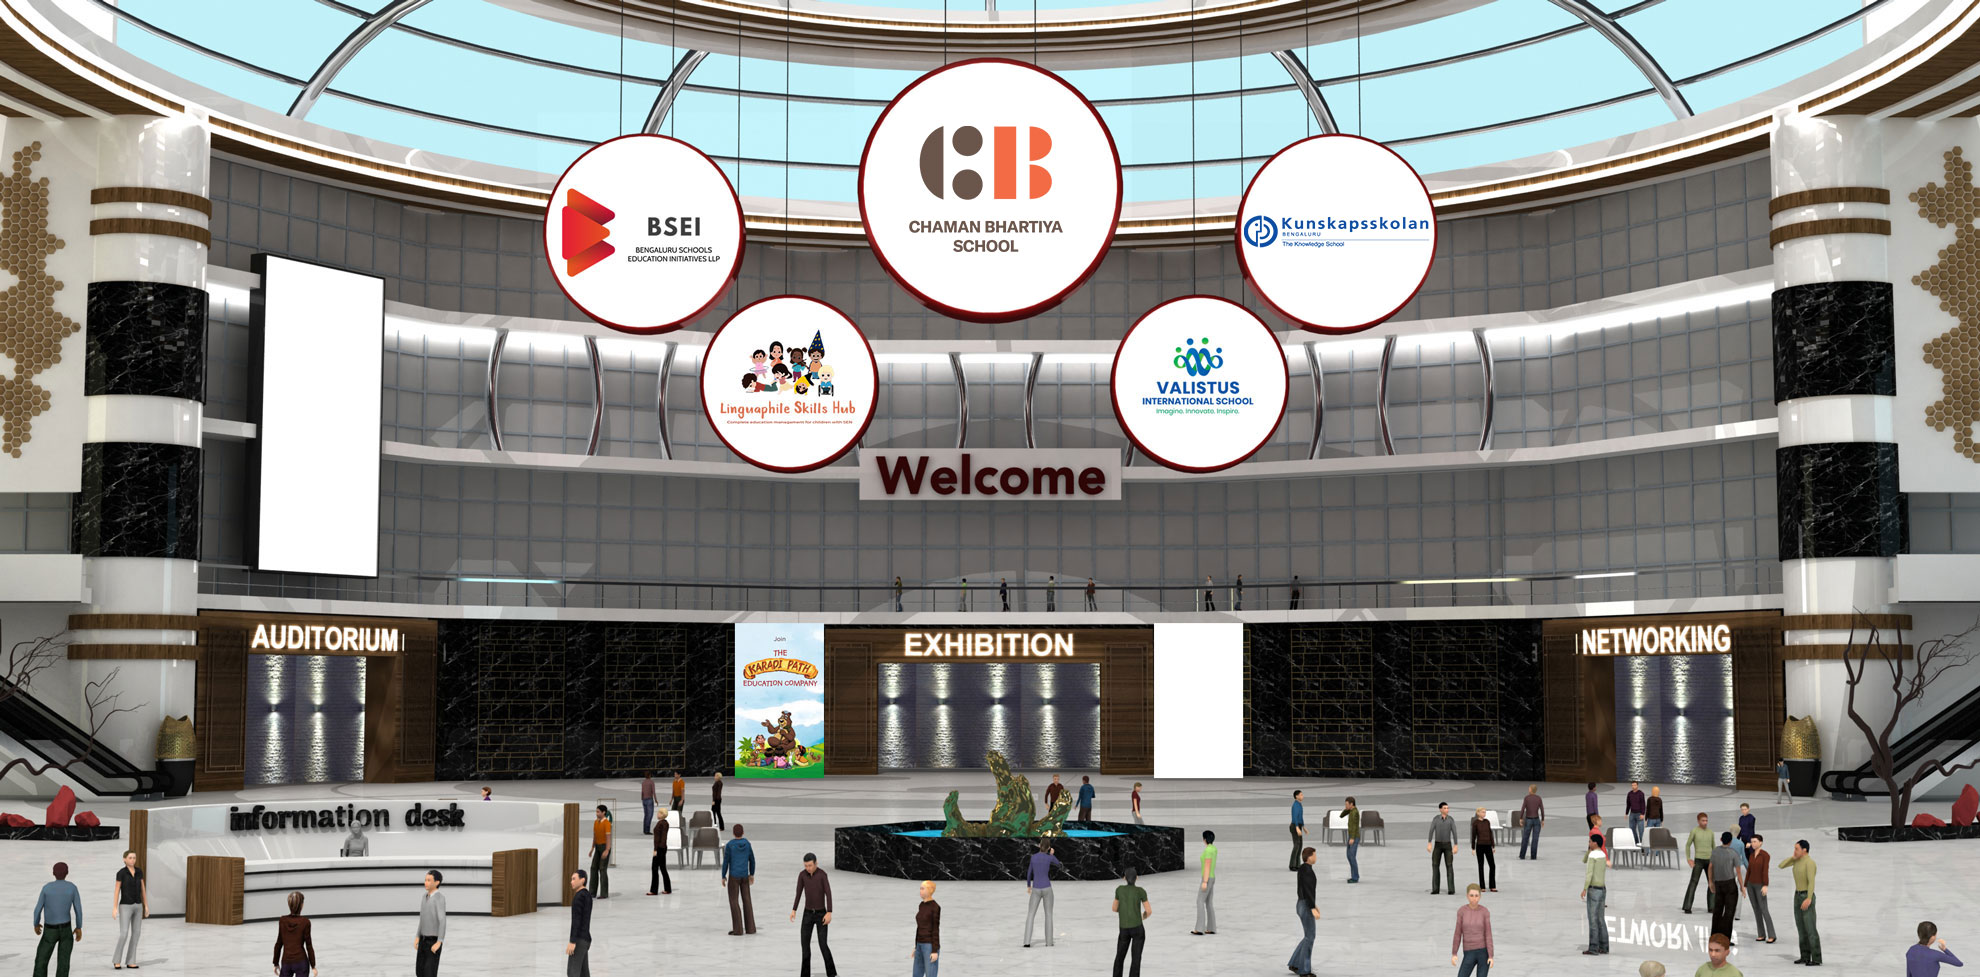
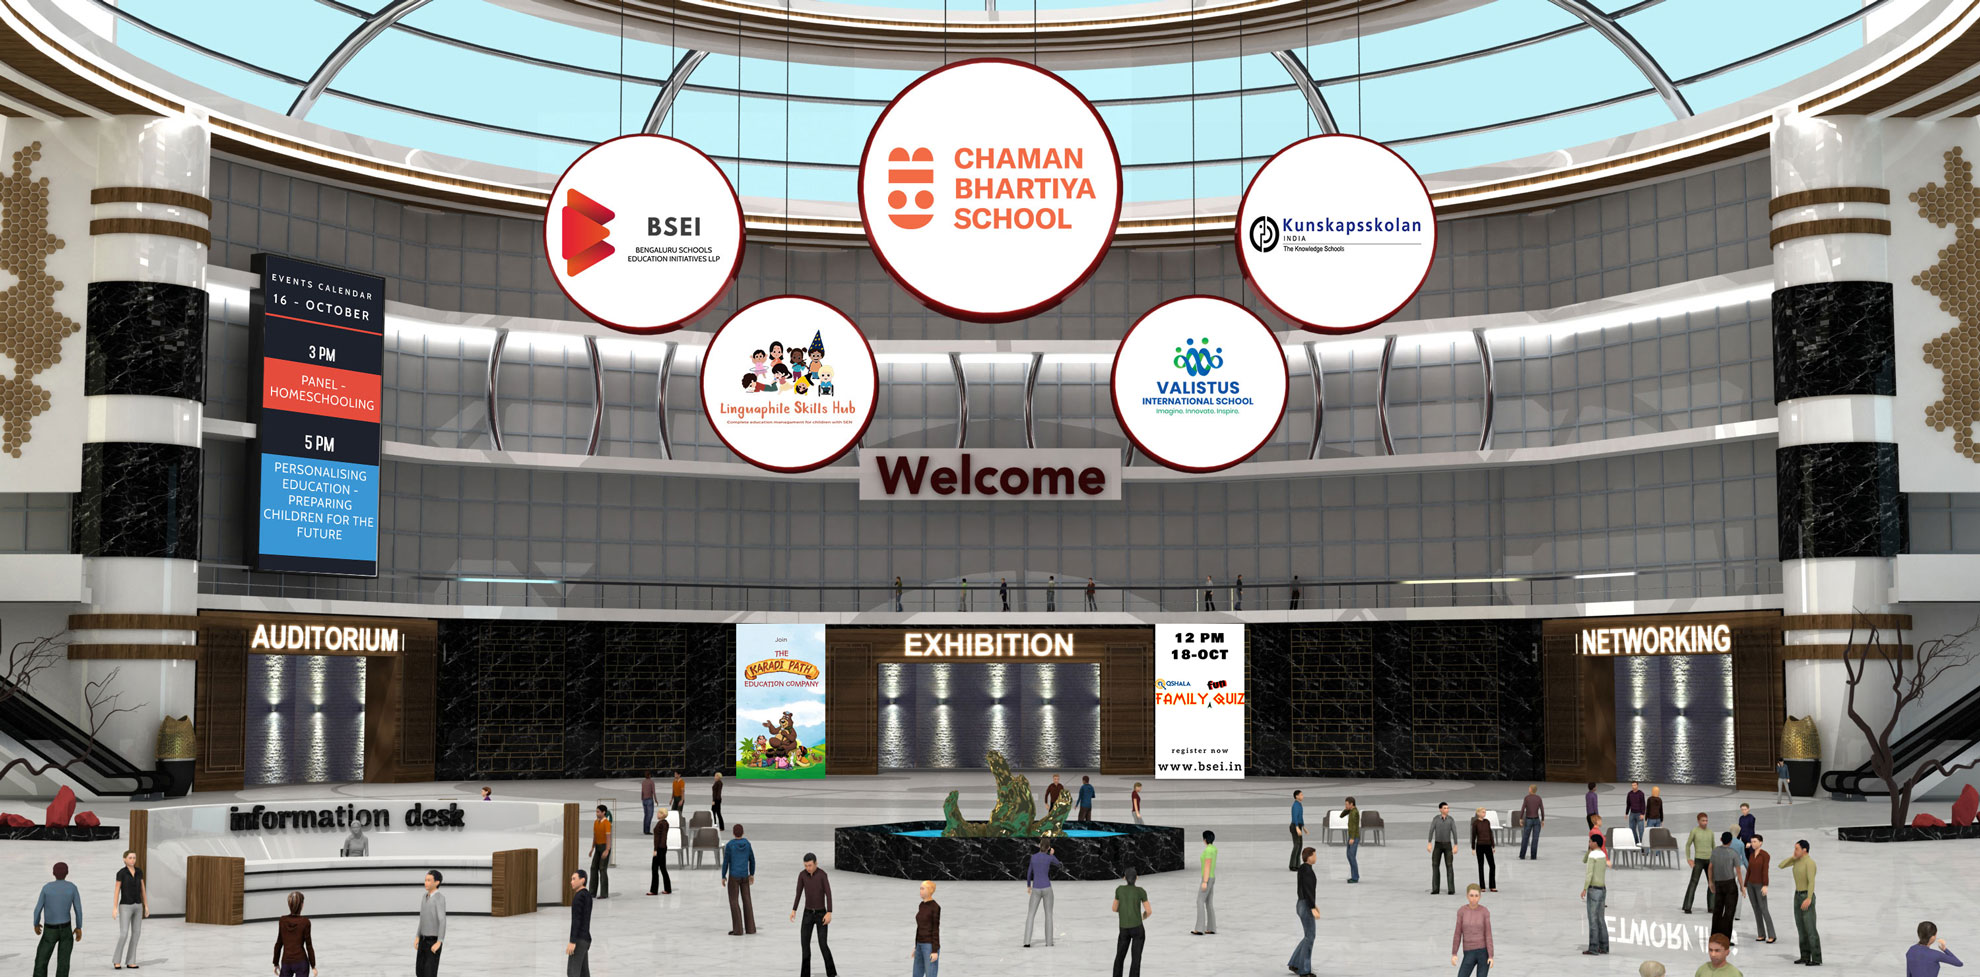
loby image change

diff --git a/src/views/lobby/LobbyView/index.js b/src/views/lobby/LobbyView/index.js
@@ -236,7 +236,7 @@ export default function LobbyView() {
                     </Link>
                     <Link className={classes.anchorSideLeft} style={{ cursor: 'pointer' }} 
                     href='https://zoom.us/meeting/register/tJEvcuGsrj0qHta0sLk0iRXDHpc7wps4b-vG' target="_blank"></Link>
-                    <Link className={classes.anchorSideRight} style={{ cursor: 'pointer' }}></Link>
+                    <Link className={classes.anchorSideRight} style={{ cursor: 'pointer' }} href="https://bsei.in/expo/quiz" target="_blank"></Link>
                     <Link className={classes.anchorAgenda} style={{ cursor: 'pointer' }} href='/app/agenda'></Link>
                 </div>
                 </div>
